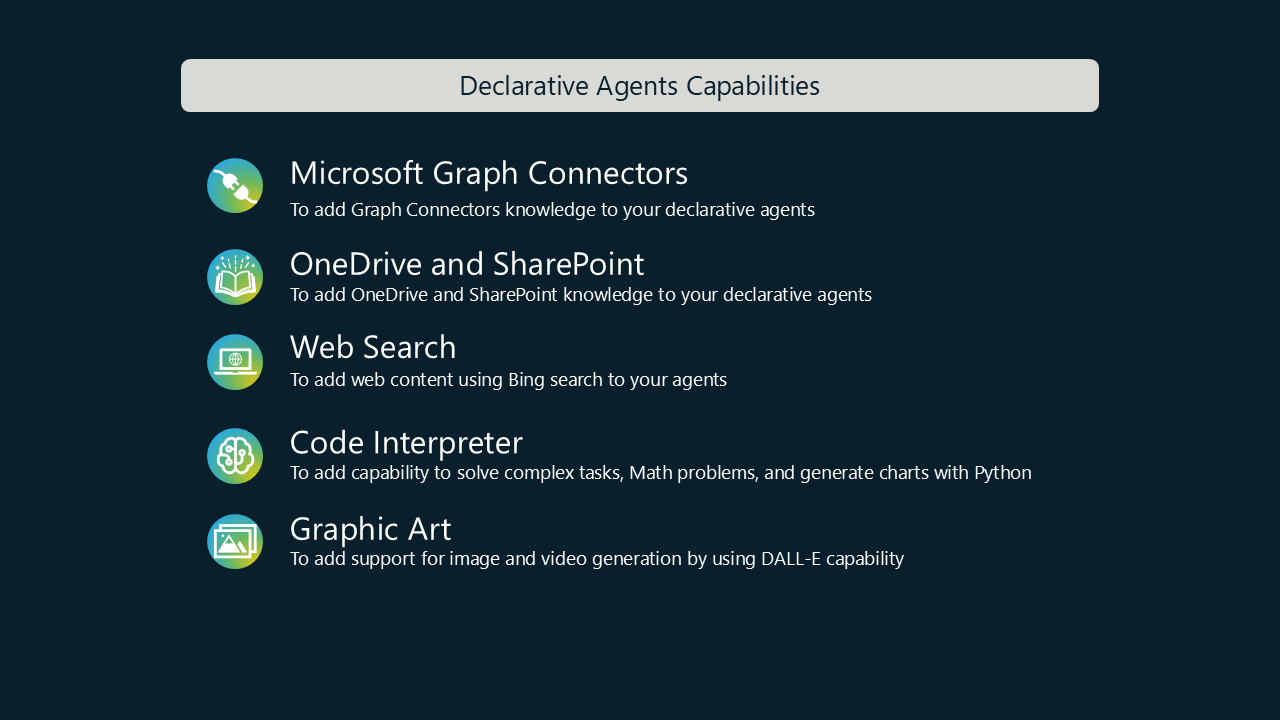
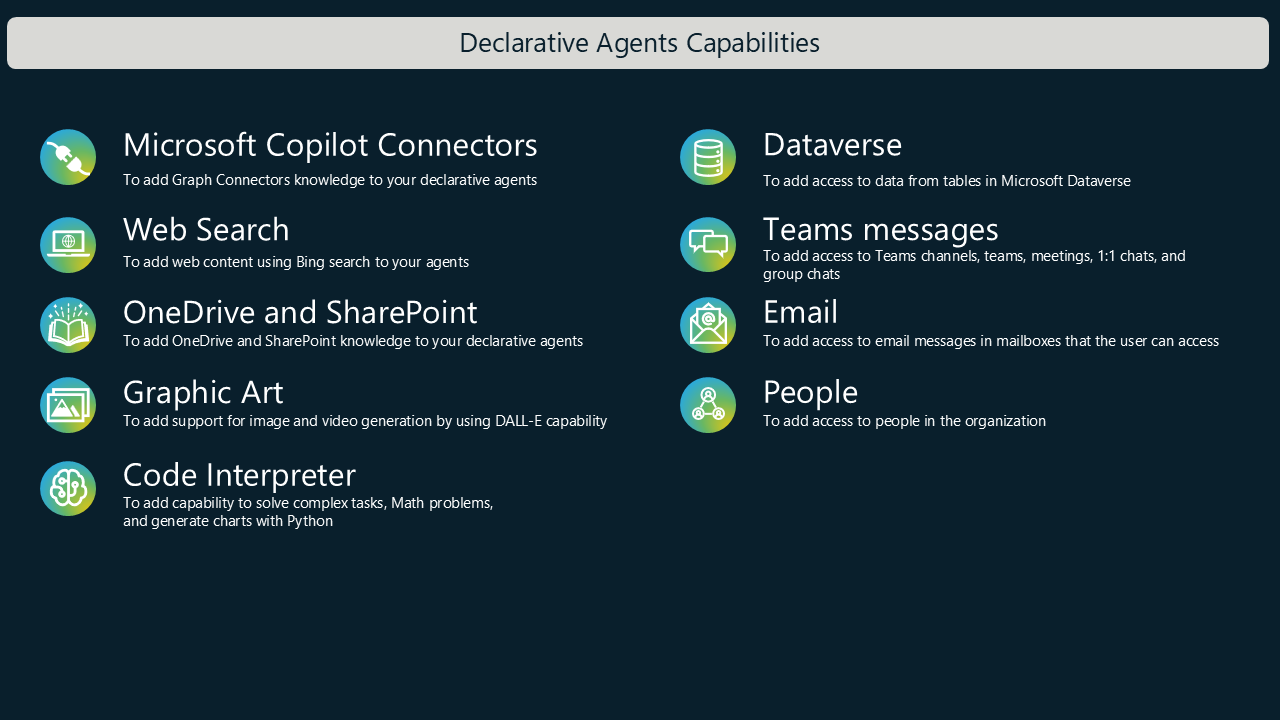
Added new capabilities to DAs

Changed region(s): [[0.0, 0.0, 1.0, 0.7944]]

diff --git a/docs/pages/extend-m365-copilot/01-declarative-copilot.md b/docs/pages/extend-m365-copilot/01-declarative-copilot.md
@@ -52,10 +52,14 @@ You can enhance the agent's focus on context and data by not only adding instruc
 They are called capabilities and there are five types of capabilities supported.
 
 - **Microsoft Copilot Connectors** - Pass connections of Copilot Connectors into the agent, allowing the agent to access and utilize the connector's knowledge.
-- **OneDrive and SharePoint** - Provides URLs of files and sites to agent, for it to gain access to those contents.
 - **Web search** - Enables or disables web content as part of the agent's knowledge base.
+- **OneDrive and SharePoint** - Provides URLs of files and sites to agent, for it to gain access to those contents.
+- **GraphicArt** - Enables the agent to support image or video generation by using DALL-e capability.
 - **Code interpreter** - Enables the capabilities for better solve the Math problem and leverage Python code to do the complex data analysis or generate chart if needed.
-- **GraphicArt** - Enable the agent to support image or video generation by using DALL-e capability.
+- **Dataverse** - Enables searching through data from tables in Microsoft Dataverse.
+- **Teams messages** - Allows searching through Teams channels, teams, meetings, 1:1 chats, and group chats.
+- **Email** - Enables searching through email messages in the mailboxes that the user has access to.
+- **People** - Allows searching for information about people in the organization.
 
 ![The capabilities available when defining a Declarative Agent.](../../assets/images/extend-m365-copilot-01/capabiltities-da.png)
 
